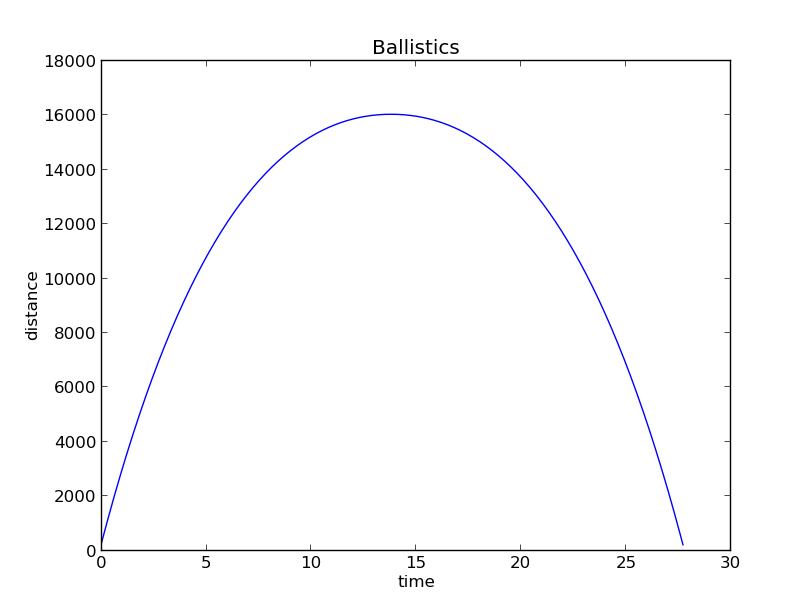
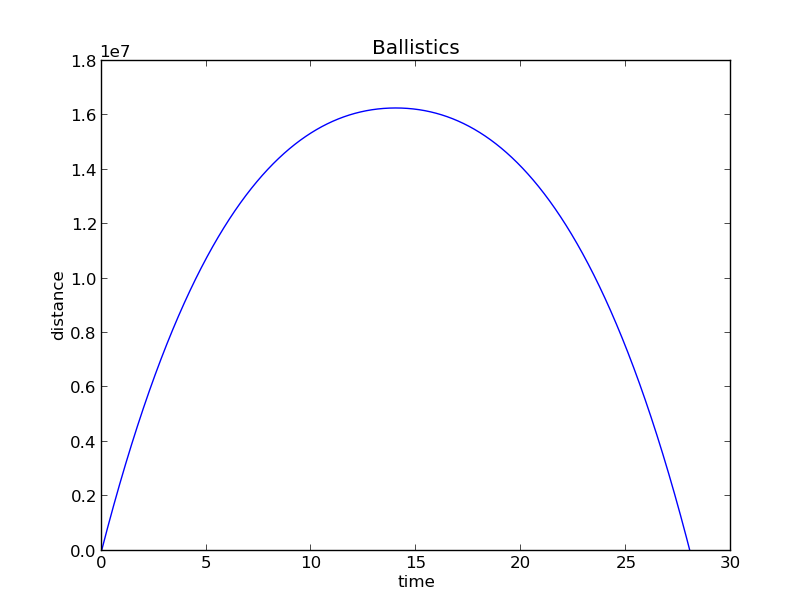
diff update

diff --git a/differentials/ballistics.py b/differentials/ballistics.py
@@ -27,7 +27,7 @@ def force(velocity):
 
 
 
-points = differential.euler(.001, 1000000, (0,300),force)
+points = differential.euler(.0001, 1000000, (0,300),force)
 
 #results
 times = points[0]
